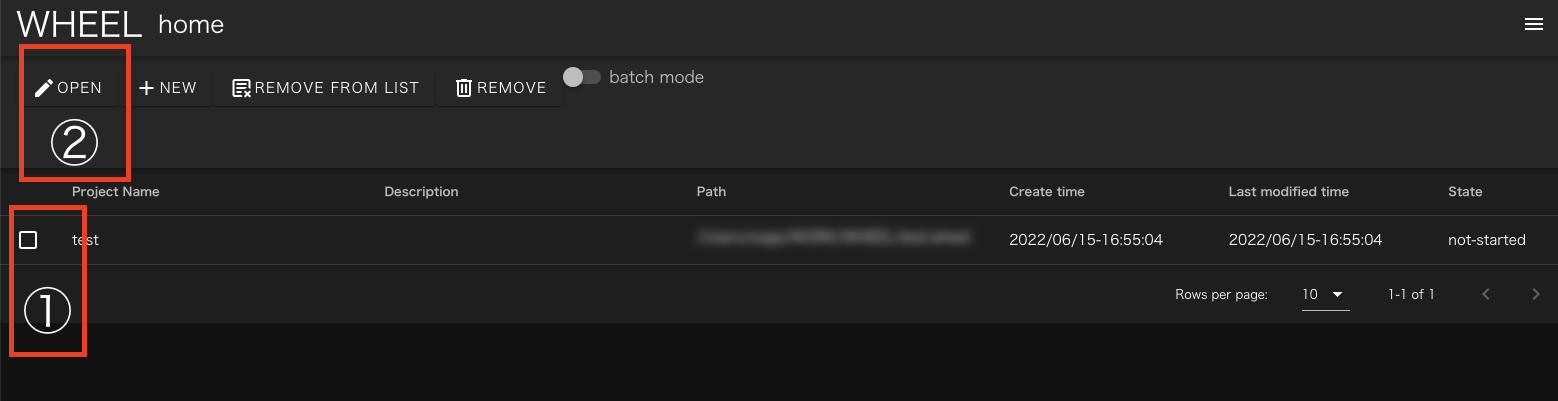
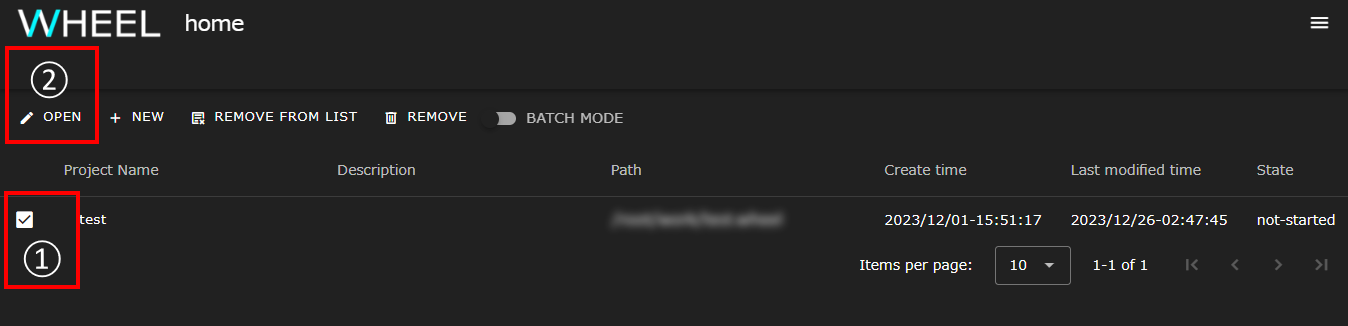
update images

diff --git a/documentMD/user_guide/_reference/1_home_screen/index.md b/documentMD/user_guide/_reference/1_home_screen/index.md
@@ -15,7 +15,7 @@ permalink: /reference/1_home_screen/
 |2| NEW ボタン                 | 新規プロジェクトを作成します                                                                         |
 |3| REMOVE FROM LIST ボタン    | プロジェクト一覧表示エリアからプロジェクトを削除します(実体ファイルは残ります)                       |
 |4| REMOVE ボタン              | プロジェクトを削除します                                                                             |
-|5| batch mode スイッチ        | 複数プロジェクトの一括削除モードへの切り替えます。有効にした場合、複数プロジェクトが選択可能となります|
+|5| BATCH MODE スイッチ        | 複数プロジェクトの一括削除モードへの切り替えます。有効にした場合、複数プロジェクトが選択可能となります|
 |6| ナビゲーションドロワー     | ユーザガイド、リモートホスト設定画面へのリンクを含むドロワーを開きます                               |
 |7| プロジェクト一覧表示エリア | 過去に開いたプロジェクトがリスト表示されます                                                         |
 
@@ -34,7 +34,7 @@ permalink: /reference/1_home_screen/
 1. __NEW__ ボタンをクリックし、新規プロジェクト作成ダイアログを表示します。
 1. 必要に応じて、ディレクトリツリーでプロジェクトデータ作成場所を選択します。
 1. プロジェクト名を入力します。
-1. __CREATE__ ボタンをクリックします。
+1. __create__ ボタンをクリックします。
 
 ![img](./img/new.png "new")
 
@@ -70,7 +70,7 @@ __プロジェクト名について__
    プロジェクト一覧表示エリアからは削除されますが、プロジェクトの実体となるファイルはサーバ側に残すことができます。
 
 ## 複数プロジェクトの一括削除
-__batch mode__ スイッチを有効にすると、複数のプロジェクトを選択できるようになります。
+__BATCH MODE__ スイッチを有効にすると、複数のプロジェクトを選択できるようになります。
 この状態で、__REMOVE__ または __REMOVE FROM LIST__ ボタンをクリックすると複数プロジェクトを一括で削除することができます。
 
 --------

diff --git a/documentMD/user_guide/_reference/1_home_screen/index.en.md b/documentMD/user_guide/_reference/1_home_screen/index.en.md
@@ -14,7 +14,7 @@ The Home screen is organized as follows.
 |2| NEW button                 | Creates a new project                                                                         |
 |3| REMOVE FROM LIST button    | Deletes the project from the project list area (the entity file remains).                       |
 |4| REMOVE button              | Deletes the project                                                                             |
-|5| batch mode switch        | Switches to mass delete mode for multiple projects. When enabled, multiple projects can be selected |
+|5| BATCH MODE switch        | Switches to mass delete mode for multiple projects. When enabled, multiple projects can be selected |
 |6| Navigation drawer     | Opens a drawer with links to the User Guide, Remote Host Configuration screen                               |
 |7| Project List Area | Lists previously opened projects.                                                         |
 
@@ -33,7 +33,7 @@ To create a new project:
 1. Click the __NEW__ button to display the Create New Project dialog.
 1. Optionally, select a project data creation location in the directory tree.
 1. Enter a project name.
-1. Click the __CREATE__ button.
+1. Click the __create__ button.
 
 ![img](./img/new.png "new")
 
@@ -68,7 +68,7 @@ To delete a project:
    It is removed from the project list area, but the files that constitute the project can remain on the server side.
 
 ## Mass Delete Multiple Projects
-Enabling the __batch mode__ switch allows you to select multiple projects.
+Enabling the __BATCH MODE__ switch allows you to select multiple projects.
 In this state, you can delete multiple projects at once by clicking the __REMOVE__ or __REMOVE FROM LIST__ button.
 
 --------
